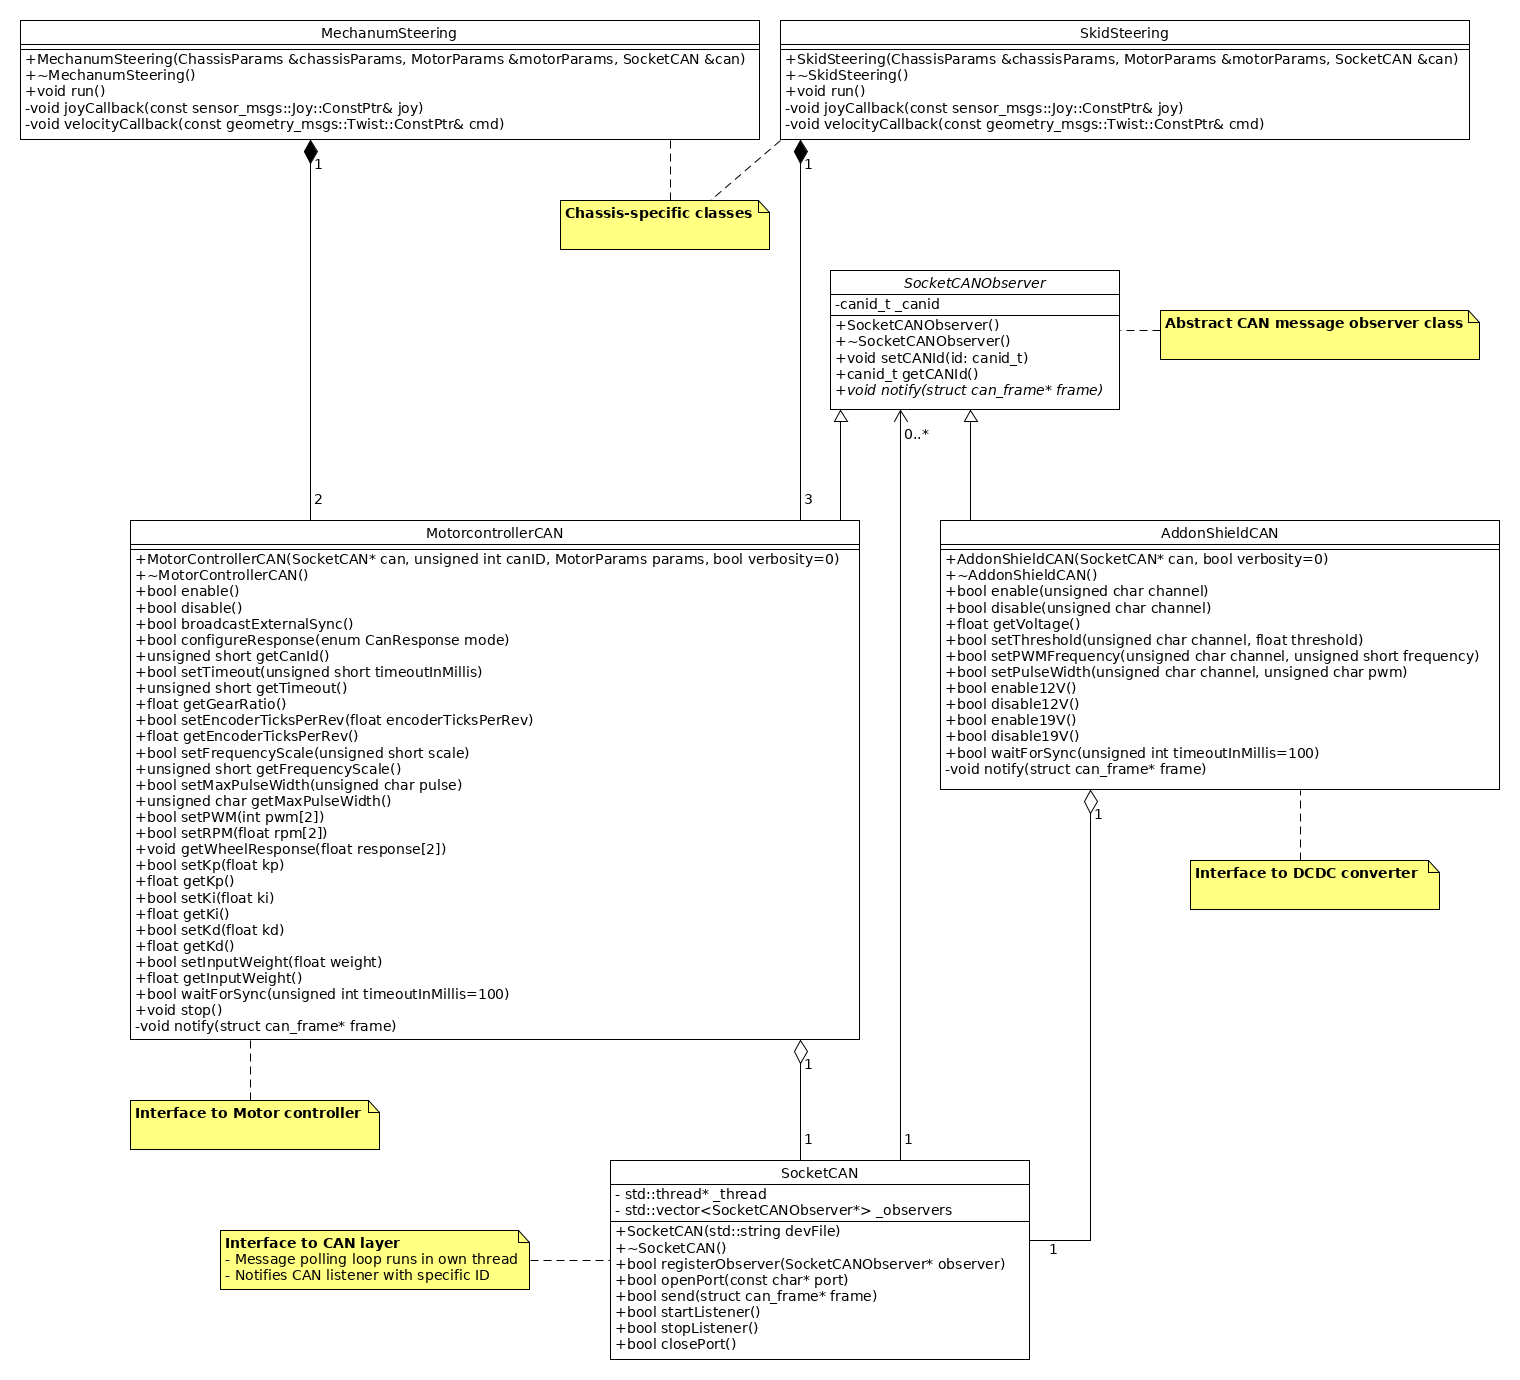
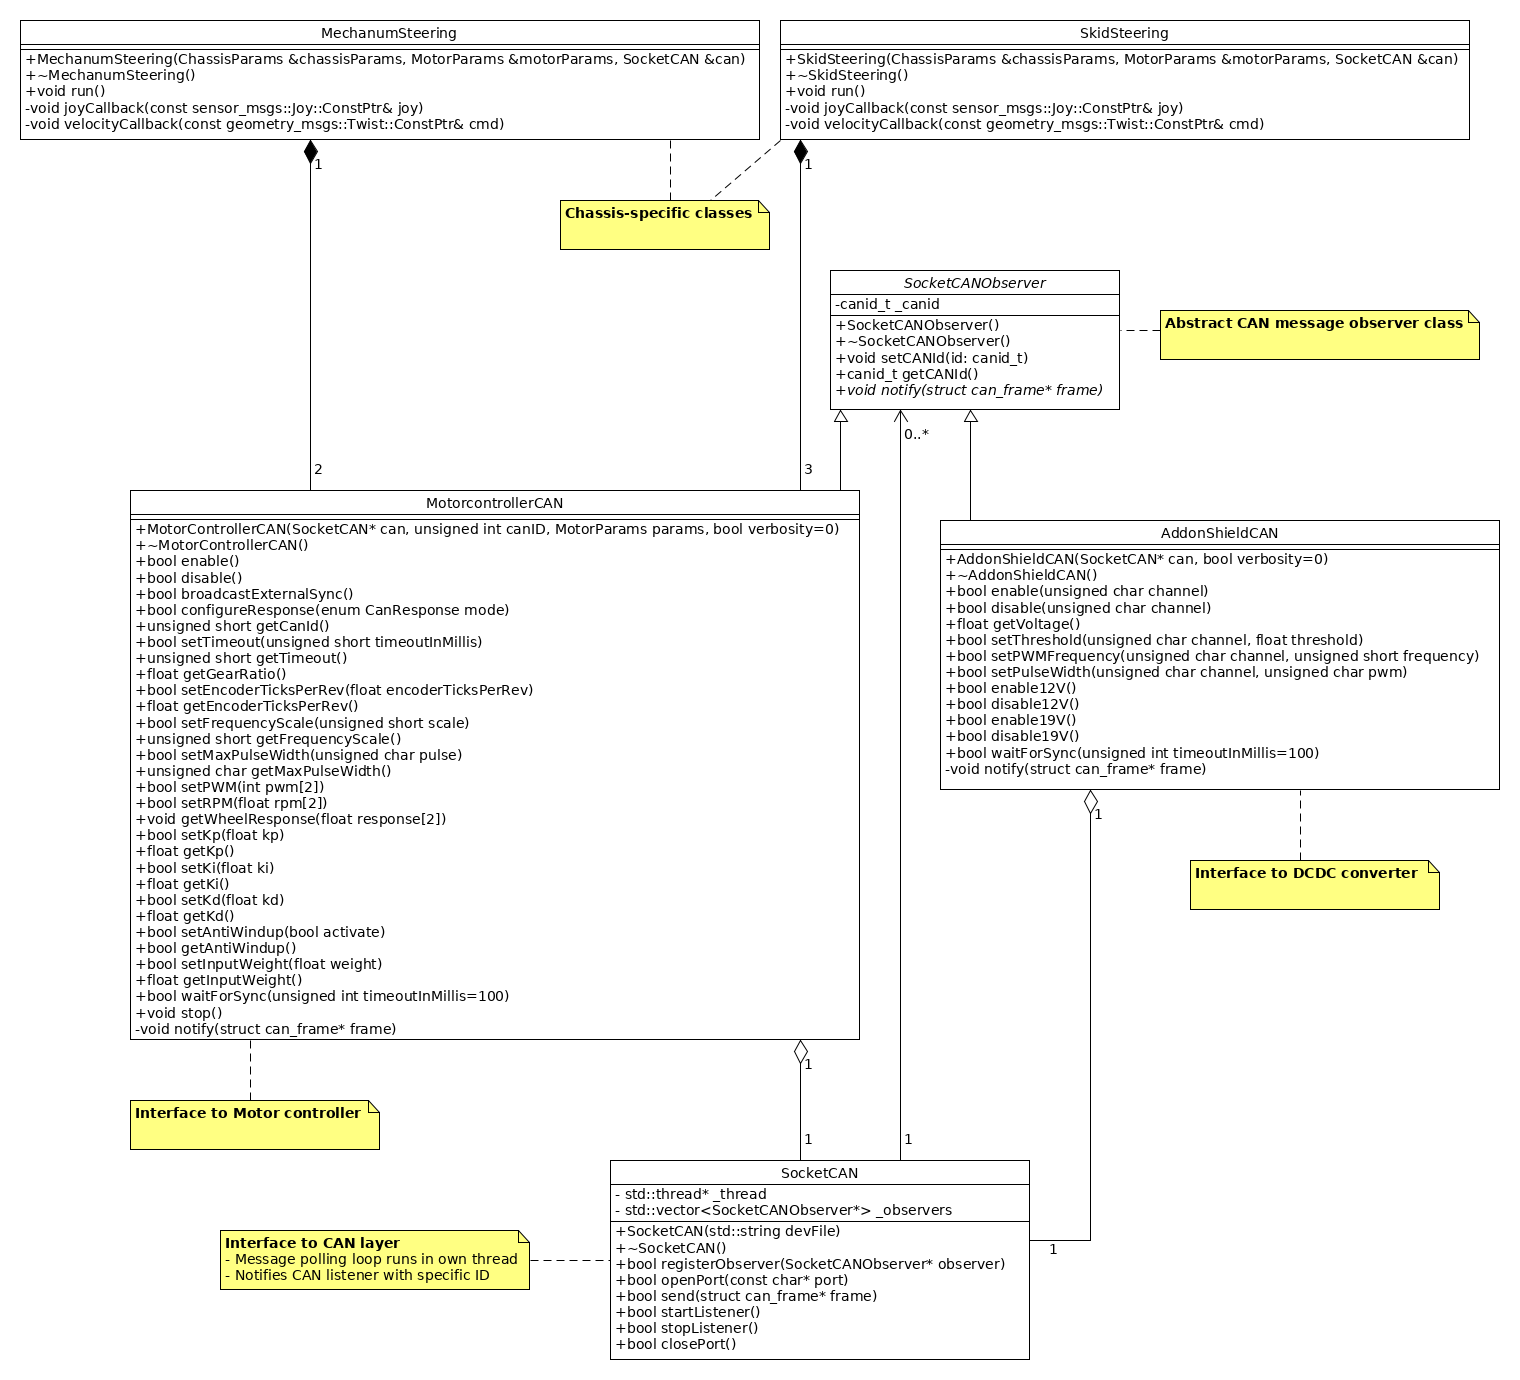
added interface to activate/deactivate anti windup functionality

Changed region(s): [[0.0928, 0.3428, 0.5566, 0.7478], [0.3092, 0.7167, 0.3401, 0.7478]]

diff --git a/studierbot/drive/interface/MotorControllerCAN.cpp b/studierbot/drive/interface/MotorControllerCAN.cpp
@@ -129,6 +129,12 @@ MotorControllerCAN::MotorControllerCAN(SocketCAN* can, unsigned int canID, Motor
     retval = false;
   }
   usleep(1000);
+  if(!setAntiWindup(params.antiWindup))
+  {
+    std::cout << "# Setting differential factor of PID controller failed for device " << canID << std::endl;
+    retval = false;
+  }
+  usleep(1000);
   if(!setInputWeight(params.inputWeight))
   {
     std::cout << "# Setting differential factor of PID controller failed for device " << canID << std::endl;
@@ -354,6 +360,23 @@ bool MotorControllerCAN::setKd(float kd)
 float MotorControllerCAN::getKd()
 {
   return _params.kd;
+}
+
+bool MotorControllerCAN::setAntiWindup(bool activate)
+{
+   bool retval = false;
+  _cf.can_dlc = 2;
+  _cf.data[0] = CMD_CTL_ANTIWINDUP;
+  _cf.data[1] = activate;
+  retval = _can->send(&_cf);
+  if(retval)
+    _params.antiWindup = activate;
+  return retval;
+}
+
+bool MotorControllerCAN::getAntiWindup()
+{
+  return _params.antiWindup;
 }
 
 bool MotorControllerCAN::setInputWeight(float weight)

diff --git a/studierbot/drive/interface/MotorControllerCAN.h b/studierbot/drive/interface/MotorControllerCAN.h
@@ -251,6 +251,19 @@ public:
   float getKd();
 
   /**
+   * Activate/Deactivate anti windup functionality of PID controller
+   * @param[in] activate activation==true, deactivation==false
+   * @return success
+   */
+  bool setAntiWindup(bool activate);
+
+  /**
+   * Accessor to anti windup parameter of PID controller
+   * @return anti windup activation
+   */
+  bool getAntiWindup();
+
+  /**
    * Set weight of input filter. Input values f are filtered with f'=weight*f'+(1-weight)*f.
    * @param[in] filtering weight. A value of 0 disables the filter. The value must be in the range of [0;1[
    */
